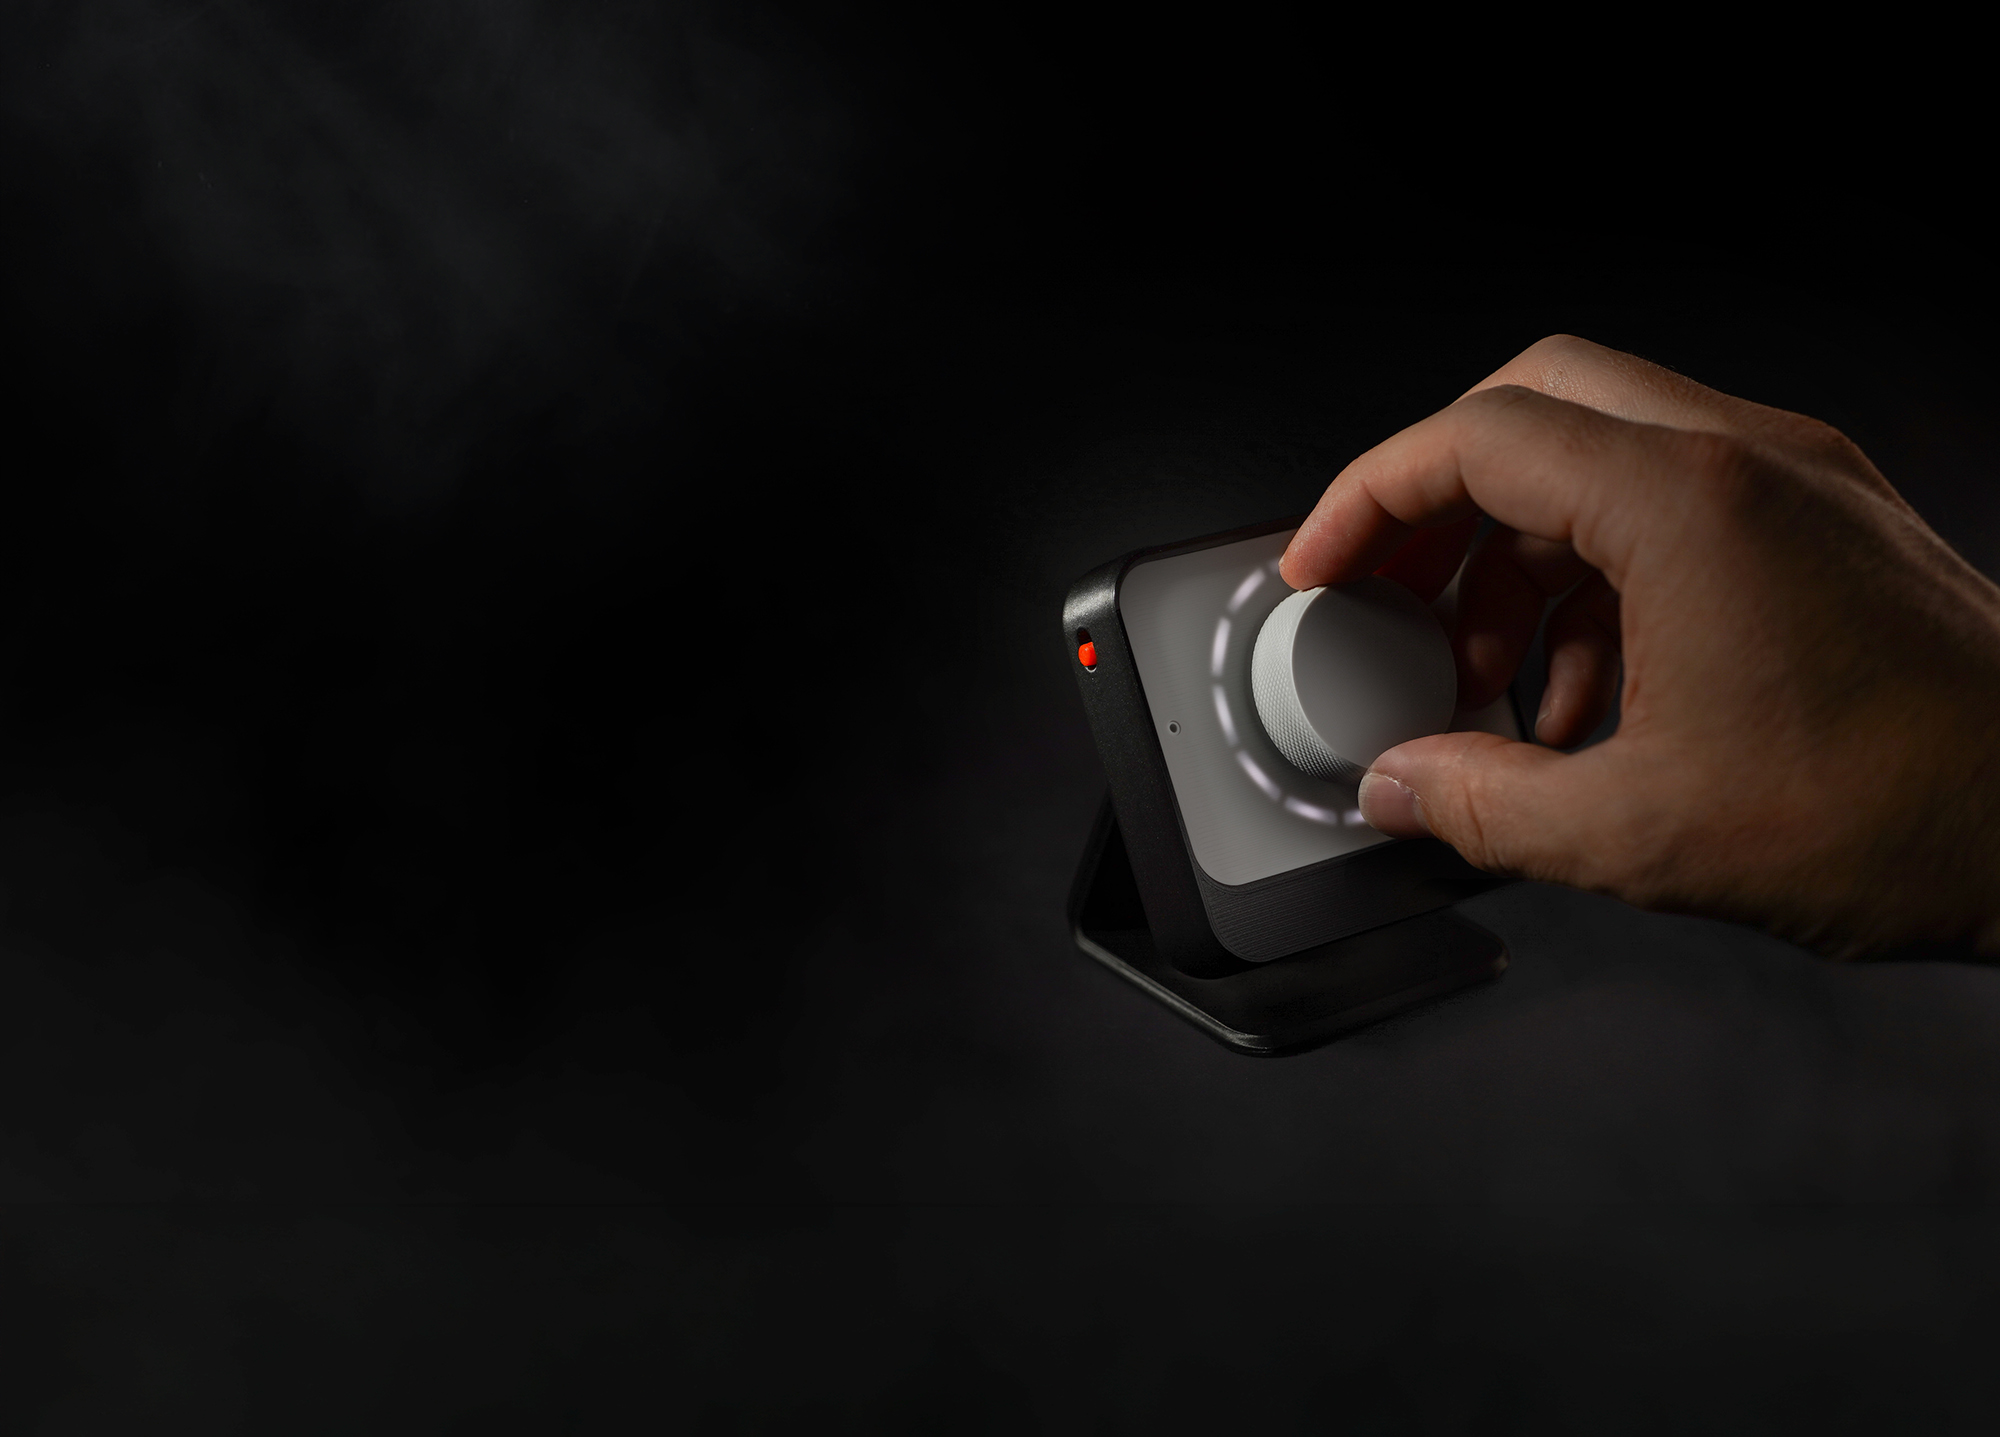
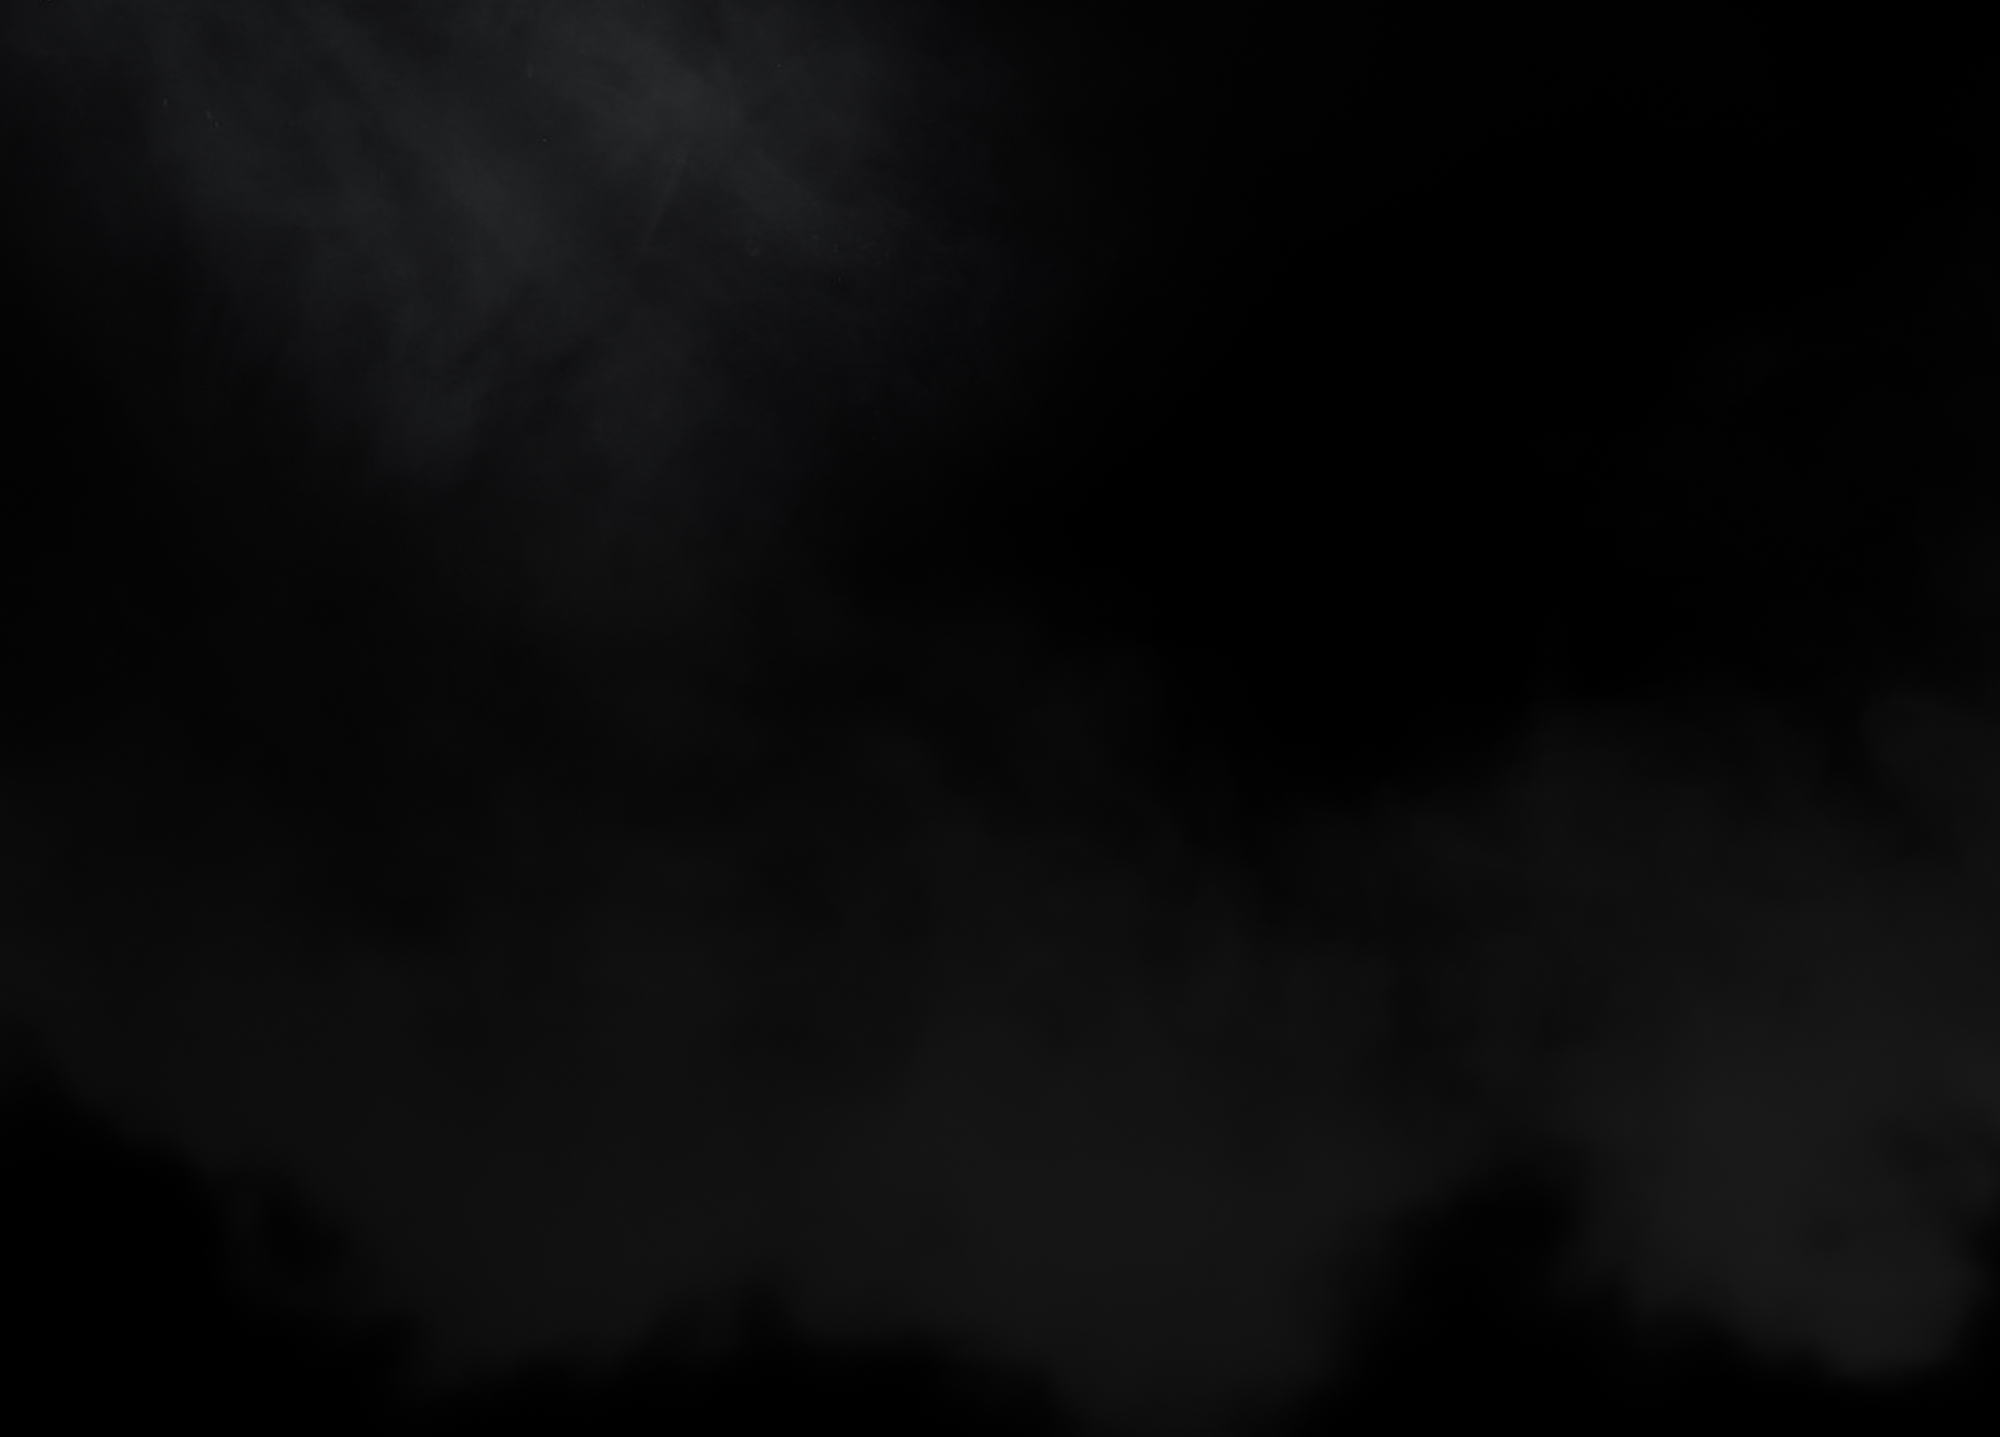
Add hand parallax layer, mobile hero redesign, section reorder & copy updates
- Add hero-hand PNG layer with desktop parallax (scrolled * 0.18) and 2.5s fade-in
- Redesign mobile hero: full-height image slot + black content area below
- Disable parallax on use cases section for mobile, use scroll background-attachment
- Move Quick Control section above Pivot Ecosystem section
- Update Transparent by Design copy
- Add nav badge (hidden below 1100px)
- Update sticky bar sentinel to #docs after section reorder
- Update hero images (background + mobile)

diff --git a/styles.css b/styles.css
@@ -227,6 +227,28 @@ section { position: relative; }
   letter-spacing: -0.01em;
 }
 .nav-wordmark { display: block; }
+.nav-brand-group {
+  display: flex;
+  align-items: center;
+  gap: 14px;
+}
+.nav-badge { position: relative; top: 2px; left: 10px; opacity: 0.5; }
+.nav-badge {
+  font-size: 11px;
+  letter-spacing: 0.04em;
+  color: rgba(255,255,255,0.45);
+  background: rgba(255,255,255,0.1);
+  border: 1px solid rgba(255,255,255,0.15);
+  border-radius: 50px;
+  padding: 4px 12px;
+  backdrop-filter: blur(8px);
+  -webkit-backdrop-filter: blur(8px);
+  white-space: nowrap;
+  display: inline-block;
+}
+@media (max-width: 1100px) {
+  .nav-badge { display: none; }
+}
 .nav-byline {
   font-size: 10px;
   color: rgba(255,255,255,0.3);
@@ -336,12 +358,42 @@ section { position: relative; }
   height: 100vh;
   min-height: 700px;
   overflow: hidden;
+  background: #000;
+}
+@keyframes hero-fade-in {
+  from { opacity: 0; }
+  to   { opacity: 1; }
 }
 .hero-bg {
   position: absolute; inset: 0;
   background-image: url('assets/pivot-hero-bg.jpg');
   background-size: cover;
   background-position: center center;
+  background-color: #000;
+}
+@media (min-width: 641px) {
+  .hero-hand {
+    animation: hero-fade-in 2.5s ease forwards;
+  }
+}
+.hero-hand {
+  display: none;
+}
+@media (min-width: 641px) {
+  .hero-hand {
+    display: block;
+    position: absolute;
+    right: 0;
+    top: 0;
+    bottom: 0;
+    width: 44%;
+    background-image: url('assets/hand.png');
+    background-size: contain;
+    background-position: right center;
+    background-repeat: no-repeat;
+    pointer-events: none;
+    will-change: transform;
+  }
 }
 .hero-overlay {
   position: absolute; inset: 0;
@@ -1198,7 +1250,7 @@ section { position: relative; }
   /* ── Mobile hero: image top, black content bottom ── */
   .hero {
     height: auto;
-    min-height: 100vh;
+    min-height: 100svh;
     display: flex;
     flex-direction: column;
     overflow: visible;
@@ -1220,7 +1272,8 @@ section { position: relative; }
     display: flex;
     flex-direction: column;
     justify-content: flex-end;
-    padding: 32px 20px 40px;
+    padding: 4px 20px env(safe-area-inset-bottom, 40px);
+    padding-bottom: max(40px, env(safe-area-inset-bottom, 40px));
   }
   .hero-content-wrap { padding: 0; max-width: 100%; }
   .hero-inner { max-width: 100%; }
@@ -1242,7 +1295,7 @@ section { position: relative; }
   .interaction { padding-top: 80px; padding-bottom: 80px; }
   .banks { padding-top: 80px; padding-bottom: 80px; }
   .ecosystem { padding-top: 80px; padding-bottom: 80px; }
-  .usecases { padding-top: 80px; padding-bottom: 80px; background-attachment: scroll; }
+  .usecases { padding-top: 80px; padding-bottom: 80px; background-attachment: scroll; background-size: cover; background-position: center; }
   .start { padding-top: 80px; padding-bottom: 80px; }
   .footer { padding-top: 80px; padding-bottom: 40px; }
   .ha { padding: 80px 20px; }

diff --git a/pivot/index.html b/pivot/index.html
@@ -23,9 +23,12 @@
   <div class="page">
     <!-- ─── Nav ─────────────────────────────────────────── -->
     <nav class="nav" id="nav">
-      <a href="#hero" class="nav-brand">
-        <img src="/assets/Pivot.svg" alt="Pivot" class="nav-wordmark" height="36">
-      </a>
+      <div class="nav-brand-group">
+        <a href="#hero" class="nav-brand">
+          <img src="/assets/Pivot.svg" alt="Pivot" class="nav-wordmark" height="36">
+        </a>
+        <span class="nav-badge">For Home Assistant Voice Preview Edition</span>
+      </div>
       <div class="nav-links">
         <a href="#interaction">How it works</a>
         <a href="#ecosystem">Ecosystem</a>
@@ -49,12 +52,12 @@
     <!-- ─── Hero ────────────────────────────────────────── -->
     <section id="hero" class="hero">
       <div class="hero-bg" id="hero-bg"></div>
+      <div class="hero-hand" id="hero-hand"></div>
       <div class="hero-overlay"></div>
       <div class="hero-content">
         <div class="hero-content-wrap">
           <div class="hero-inner">
-            <span class="badge" id="hero-badge">For Home Assistant Voice Preview Edition</span>
-            <h1 class="hero-headline" id="hero-headline">Voice control<br>you can touch.</h1>
+<h1 class="hero-headline" id="hero-headline">Voice control<br>you can touch.</h1>
             <p class="hero-sub">Pivot transforms the Home Assistant Voice Preview Edition (VPE) into a tactile control dial – for lights, media, climate, timers, scenes and more. Use it with your existing VPE, or build a more refined version with <a href="#hardware" class="hero-sub-link">the Pivot Dial enclosure</a>.</p>
           </div>
         </div>

diff --git a/script.js b/script.js
@@ -19,6 +19,18 @@
     return Math.max(0, Math.min(1, (window.scrollY - heroTop) / heroH));
   };
 
+  // ─── Hero hand parallax (desktop only) ────────────────
+  const heroHandEl = document.getElementById('hero-hand');
+  if (heroHandEl && !isMobile) {
+    const updateHandParallax = () => {
+      const scrolled = window.scrollY;
+      if (scrolled <= (heroEl ? heroEl.offsetHeight : window.innerHeight)) {
+        heroHandEl.style.transform = `translateY(${scrolled * 0.18}px)`;
+      }
+    };
+    window.addEventListener('scroll', updateHandParallax, { passive: true });
+  }
+
   // ─── Nav scroll state ──────────────────────────────────
   const nav        = document.getElementById('nav');
   const mobileMenu = document.getElementById('nav-mobile-menu');
